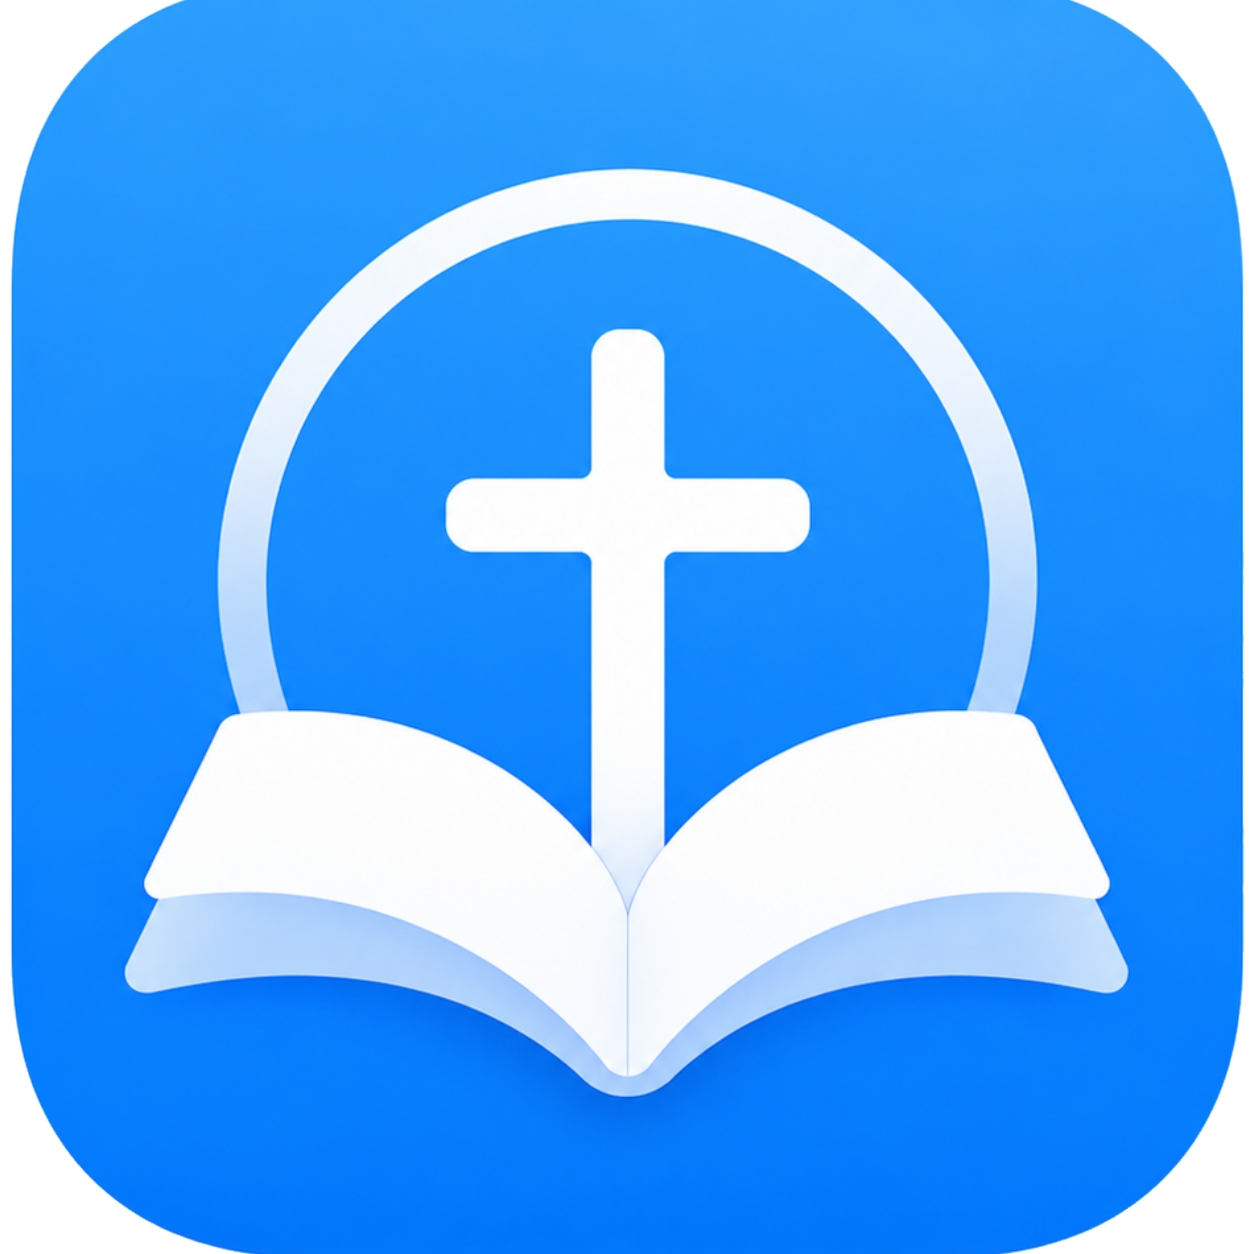
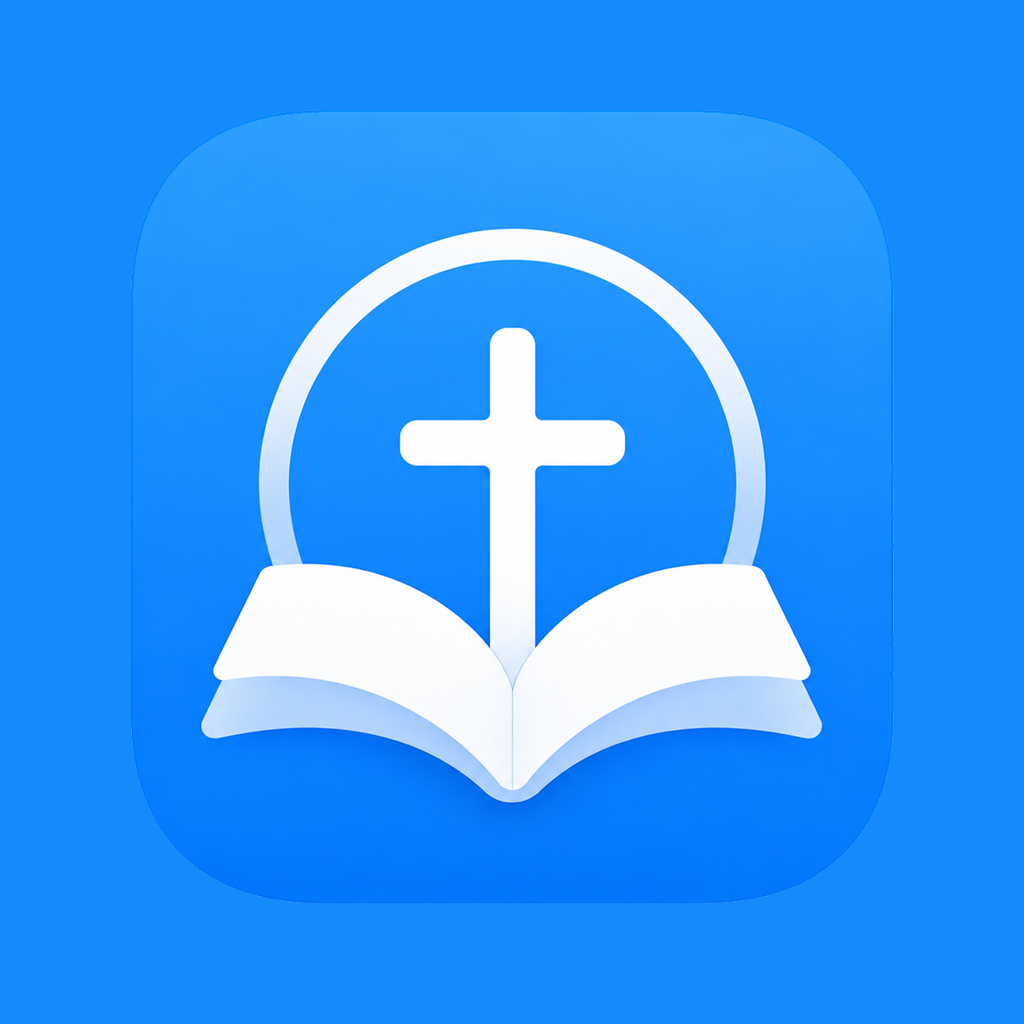
chore(release): prepare version 0.2.0

diff --git a/src/notifications/appInfo.test.ts b/src/notifications/appInfo.test.ts
@@ -5,7 +5,7 @@ import {APP_VERSION} from './appInfo';
 
 describe('app info', () => {
   it('uses the native Expo app version for FCM metadata', () => {
-    expect(APP_VERSION).toBe('0.1.1');
+    expect(APP_VERSION).toBe('0.2.0');
     expect(APP_VERSION).toBe(appConfig.expo.version);
   });
 });